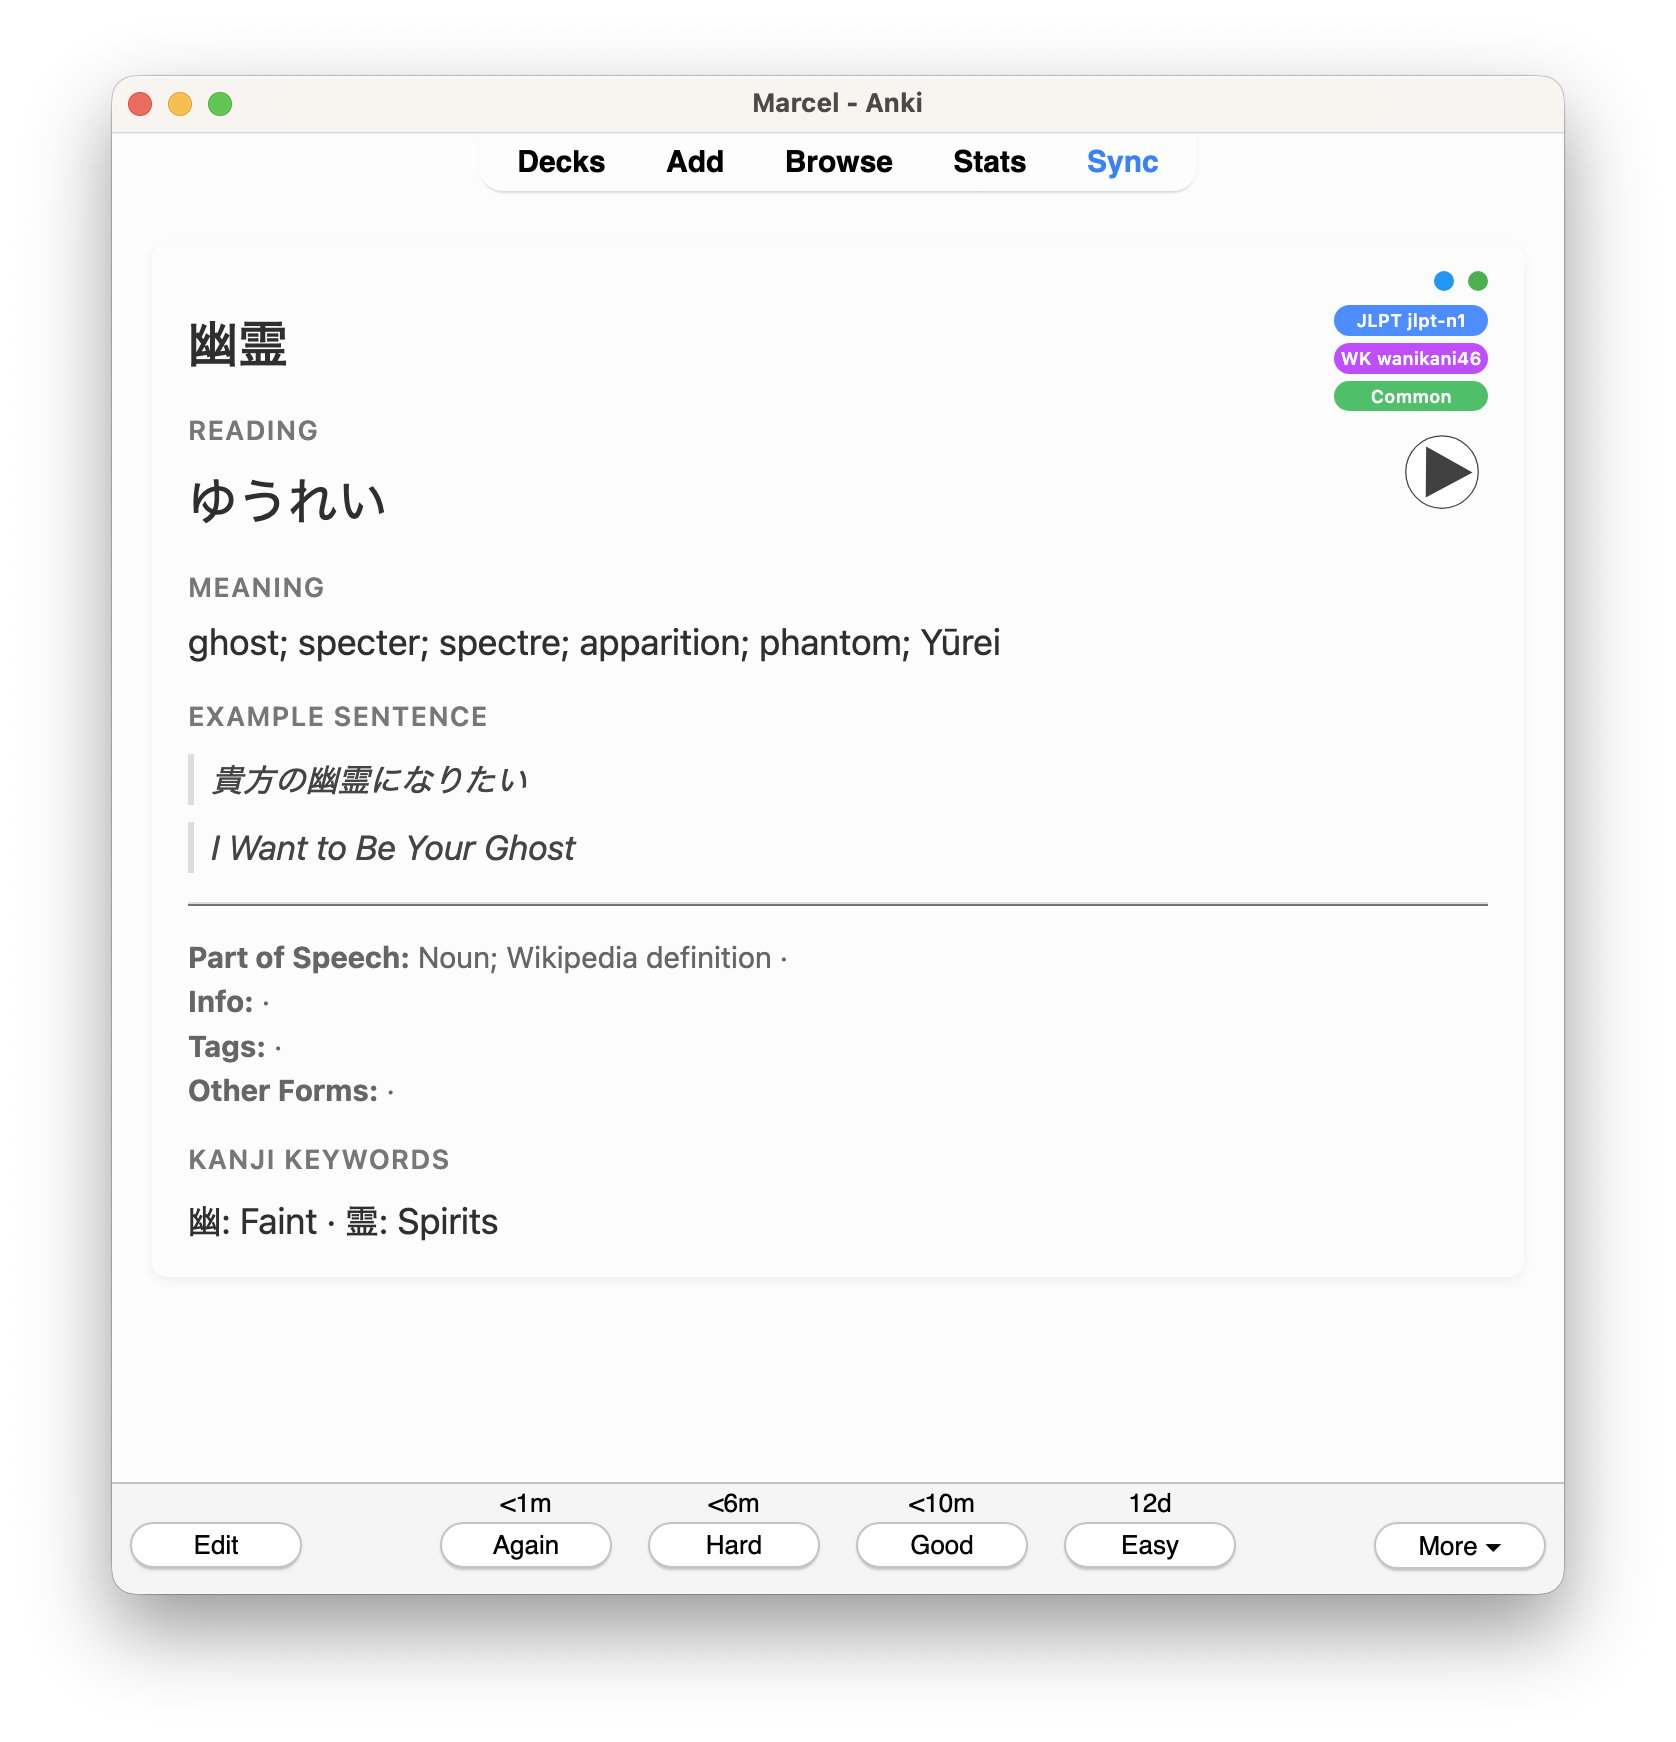
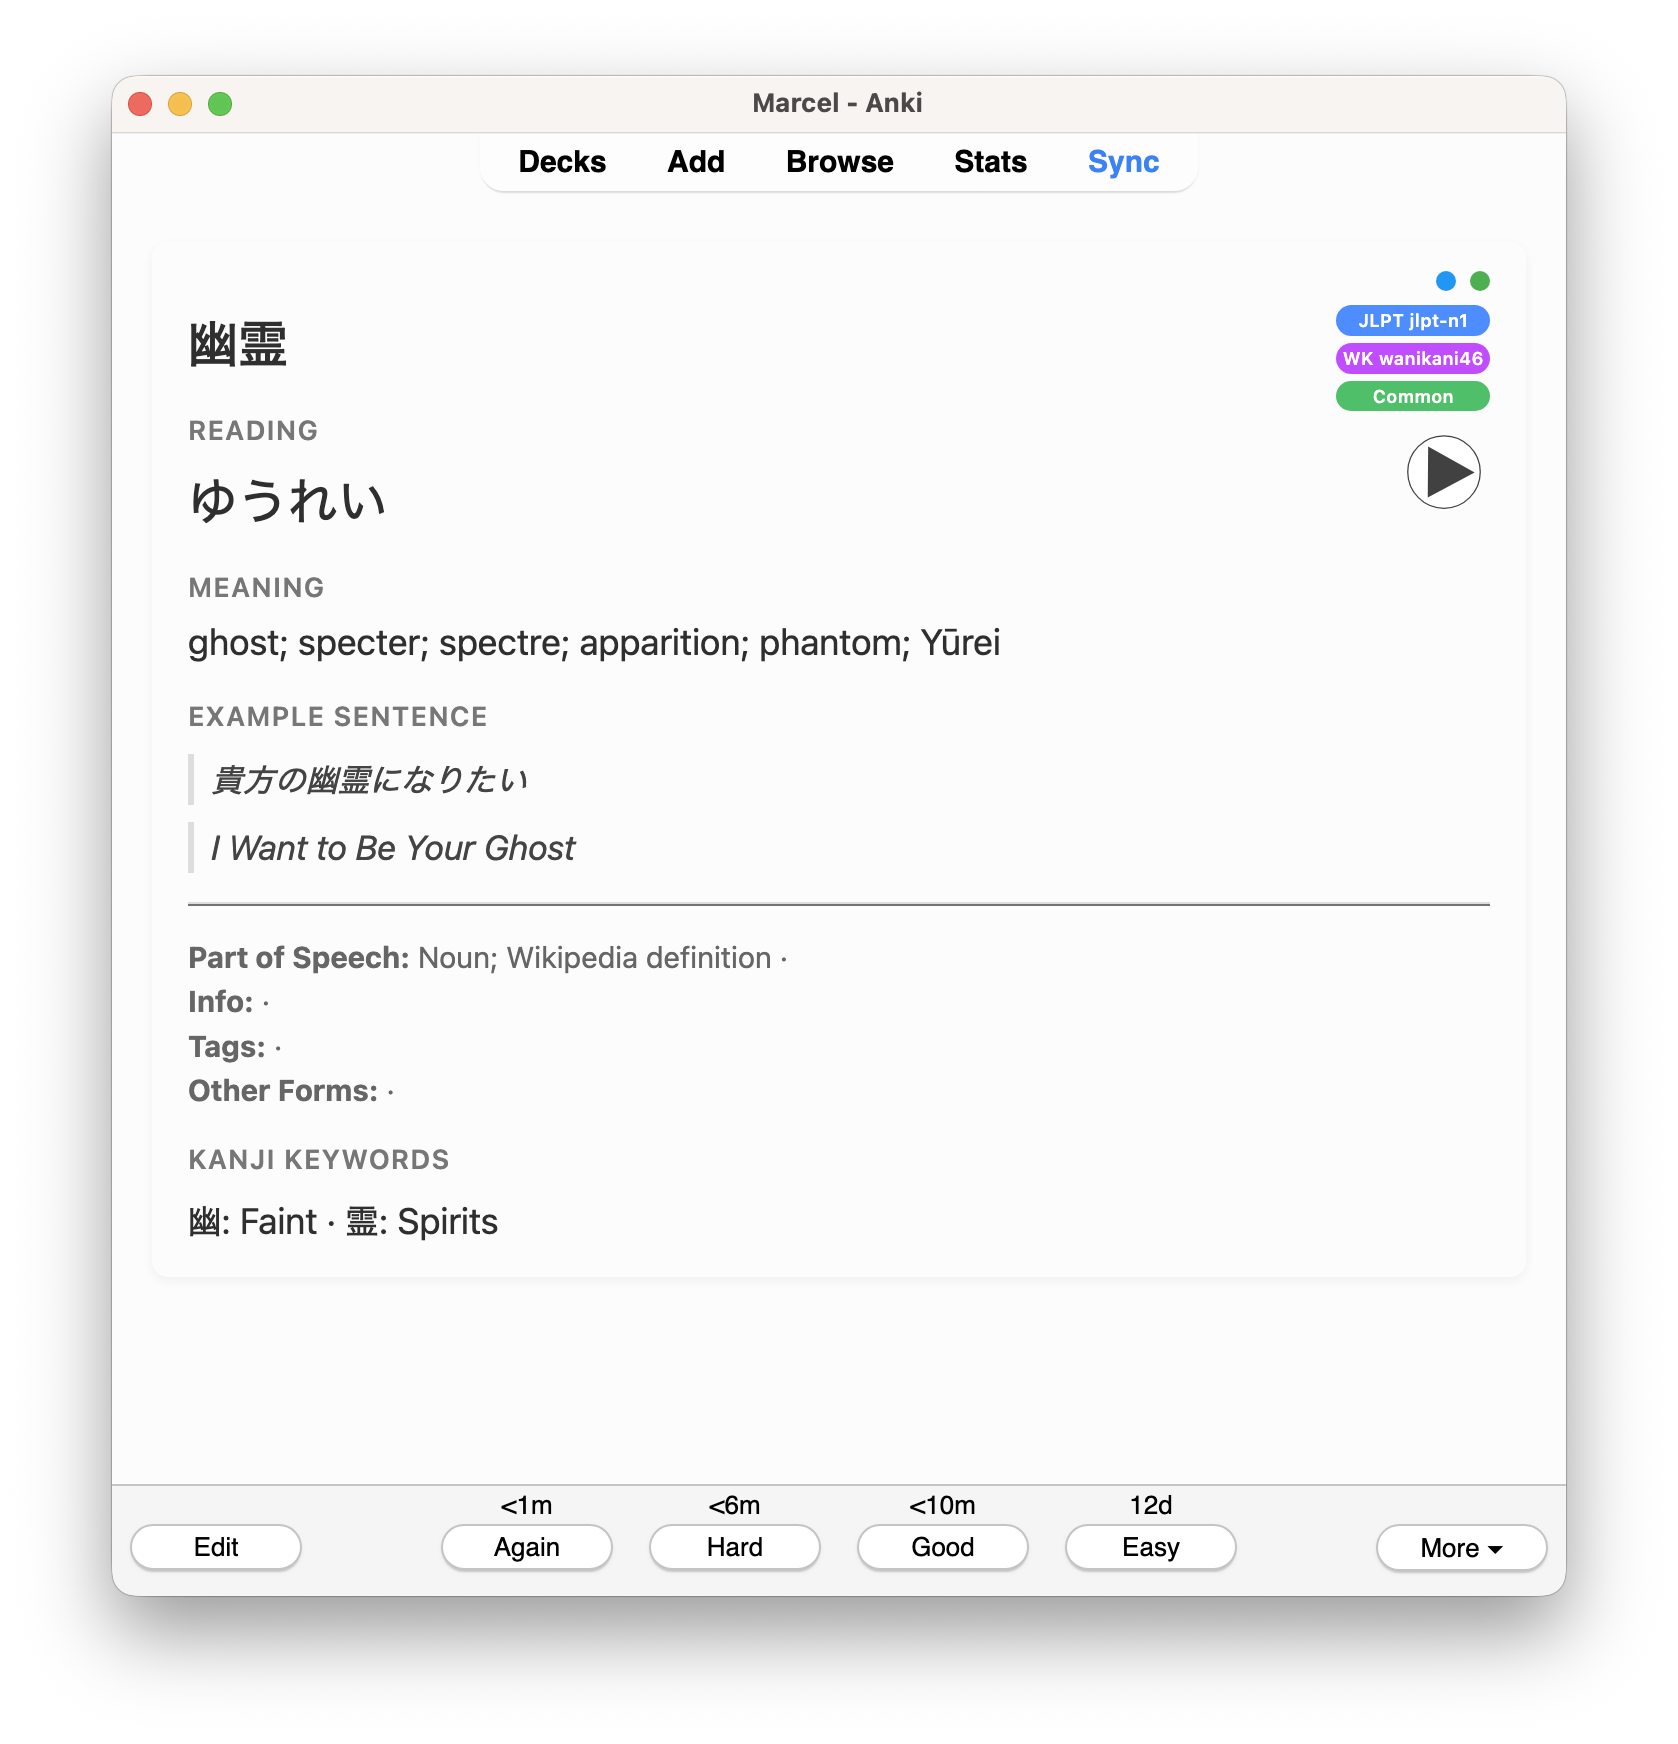
Update help tab

diff --git a/ui/settings/help_tab.py b/ui/settings/help_tab.py
@@ -144,7 +144,7 @@ def _build_quick_start() -> QWidget:
         cl4.addWidget(_bullet(step))
     layout.addWidget(card4)
 
-    layout.addWidget(
+    cl4.addWidget(
         make_help_image(
             "mining_note.png",
             caption="Mining note in the editor",
@@ -243,6 +243,13 @@ def _build_overview() -> QWidget:
             "<b>Export Learned Kanji</b> without leaving the window."
         )
     )
+    cl_hm.addWidget(
+        make_help_image(
+            "kanji_heatmap.png",
+            caption="Kanji Heat Map",
+            max_width=450,
+        )
+    )
     layout.addWidget(card_hm)
 
     # ── Difficult Kanji ─────────────────────────────────────────────────
@@ -268,6 +275,13 @@ def _build_overview() -> QWidget:
             "A fixed reference of look-alike kanji that are easy to confuse."
         )
     )
+    cl_dk.addWidget(
+        make_help_image(
+            "difficult_kanji.png",
+            caption="Difficult Kanji",
+            max_width=450,
+        )
+    )
     layout.addWidget(card_dk)
 
     # ── Today's Progress ────────────────────────────────────────────────
@@ -287,6 +301,13 @@ def _build_overview() -> QWidget:
         _body_label(
             "Counts update as you study and mine. Empty sections show a short placeholder "
             "instead of a blank card."
+        )
+    )
+    cl_tp.addWidget(
+        make_help_image(
+            "todays_progress.png",
+            caption="Today’s Progress",
+            max_width=450,
         )
     )
     layout.addWidget(card_tp)
@@ -347,6 +368,27 @@ def _build_note_type() -> QWidget:
             "Those actions refresh the learned-kanji cache that drives the dots and keywords."
         )
     )
+    cl_know.addWidget(
+        make_help_image(
+            "note_usually_kanji_small.png",
+            caption="Usually Kanji",
+            max_width=150,
+        )
+    )
+    cl_know.addWidget(
+        make_help_image(
+            "note_kanji_known_small.png",
+            caption="Kanji Known",
+            max_width=150,
+        )
+    )
+    cl_know.addWidget(
+        make_help_image(
+            "note_kanji_meanings_small.png",
+            caption="Kanji Meanings",
+            max_width=150,
+        )
+    )
     layout.addWidget(card_know)
 
     # ── Fields by who uses them ─────────────────────────────────────────
@@ -376,6 +418,13 @@ def _build_note_type() -> QWidget:
         row.setStyleSheet(f"color: {TEXT_BODY}; font-size: 13px;")
         row.setWordWrap(True)
         cl_user.addWidget(row)
+    cl_user.addWidget(
+        make_help_image(
+            "user_fields.png",
+            caption="Fields you fill (user)",
+            max_width=450,
+        )
+    )
     layout.addWidget(card_user)
 
     card_jisho, cl_jisho = make_section_card("Fields filled by Jisho")
@@ -502,25 +551,58 @@ def _build_note_type() -> QWidget:
         _body_label(
             "In short: prefer <b>Soft Update Everything</b>. Use a Force Update only "
             "when you intentionally changed RTK keywords (or want meanings refreshed) "
-            "and need that change reflected on existing mining cards."
+            "and need that change reflected on existing mining cards.<br>"
+        )
+    )
+    cl_upd.addWidget(
+        make_help_image(
+            "menu.png",
+            caption="Update functions in the Tools menu",
+            max_width=450,
+        )
+    )
+    cl_upd.addWidget(
+        _body_label(
+            "A reminder to update after studying is shown in the deck browser, unless disabled under Settings → General."
+        )
+    )
+    cl_upd.addWidget(
+        make_help_image(
+            "update_reminder.png",
+            caption="Update reminder",
+            max_width=450,
         )
     )
     layout.addWidget(card_upd)
 
-    layout.addWidget(
+    card_note_type, cl_note_type = make_section_card("Note type — front / back")
+    cl_note_type.addWidget(
+        _body_label(
+            "The front of the card shows the example sentence and the word you mined, "
+            "as well as whether the word is usually written in kanji or kana, and whether you know all the kanji in it."
+        )
+    )
+    cl_note_type.addWidget(
         make_help_image(
             "note_front.png",
             caption="Note type — front",
             max_width=450,
         )
     )
-    layout.addWidget(
+    cl_note_type.addWidget(
+        _body_label(
+            "The back of the card shows the translation, your kanji keywords from the RTK deck, any "
+            "notes and mnemonics you added, additional information from Jisho, and plays the audio if present."
+        )
+    )
+    cl_note_type.addWidget(
         make_help_image(
             "note_back.png",
             caption="Note type — back",
             max_width=450,
         )
     )
+    layout.addWidget(card_note_type)
     layout.addStretch()
     return _make_scrollable(page)
 
@@ -536,6 +618,17 @@ def _build_jisho() -> QWidget:
             "Profiles, field mapping, and multi-meaning / multi-word formats."
         )
     )
+
+    card, cl = make_section_card("Jisho integration")
+    cl.addWidget(
+        _body_label(
+            "Jisho support inside JapaneseMining is based on code from the separate add-on "
+            '<a href="https://ankiweb.net/shared/info/376619270">Anki Jisho Connect</a> (MIT license). '
+            "If you already have that add-on installed and prefer to use it on its own, "
+            "turn <b>Enable Jisho</b> off in Settings → Jisho, then restart Anki. Leaving both enabled can conflict."
+        )
+    )
+    layout.addWidget(card)
 
     card, cl = make_section_card("Profiles")
     cl.addWidget(
@@ -556,6 +649,13 @@ def _build_jisho() -> QWidget:
             "Only rows with both a source and a target are saved."
         )
     )
+    cl2.addWidget(
+        make_help_image(
+            "jisho_mappings.png",
+            caption="Jisho field mapping",
+            max_width=450,
+        )
+    )
     layout.addWidget(card2)
 
     card3, cl3 = make_section_card("Formats")
@@ -567,13 +667,6 @@ def _build_jisho() -> QWidget:
     )
     layout.addWidget(card3)
 
-    layout.addWidget(
-        make_help_image(
-            "jisho_mappings.png",
-            caption="Jisho mappings",
-            max_width=450,
-        )
-    )
     layout.addStretch()
     return _make_scrollable(page)
 
@@ -697,15 +790,15 @@ def _build_rtk_help() -> QWidget:
             "Avoid Import if you must keep existing scheduling for those kanji."
         )
     )
-    layout.addWidget(card6)
-
-    layout.addWidget(
+    cl6.addWidget(
         make_help_image(
             "rtk_setup_import.png",
             caption="RTK Setup & Import tab",
             max_width=450,
         )
     )
+    layout.addWidget(card6)
+
     layout.addStretch()
     return _make_scrollable(page)
 
@@ -740,6 +833,13 @@ def _build_translate() -> QWidget:
             "Match the URL to your key type. The shortcut is global (default Ctrl+T)."
         )
     )
+    cl.addWidget(
+        make_help_image(
+            "translate_settings.png",
+            caption="DeepL settings",
+            max_width=450,
+        )
+    )
     layout.addWidget(card)
 
     card2, cl2 = make_section_card("Profiles")
@@ -761,13 +861,6 @@ def _build_translate() -> QWidget:
     )
     layout.addWidget(card3)
 
-    layout.addWidget(
-        make_help_image(
-            "translate_settings.png",
-            caption="DeepL settings",
-            max_width=450,
-        )
-    )
     layout.addStretch()
     return _make_scrollable(page)
 
